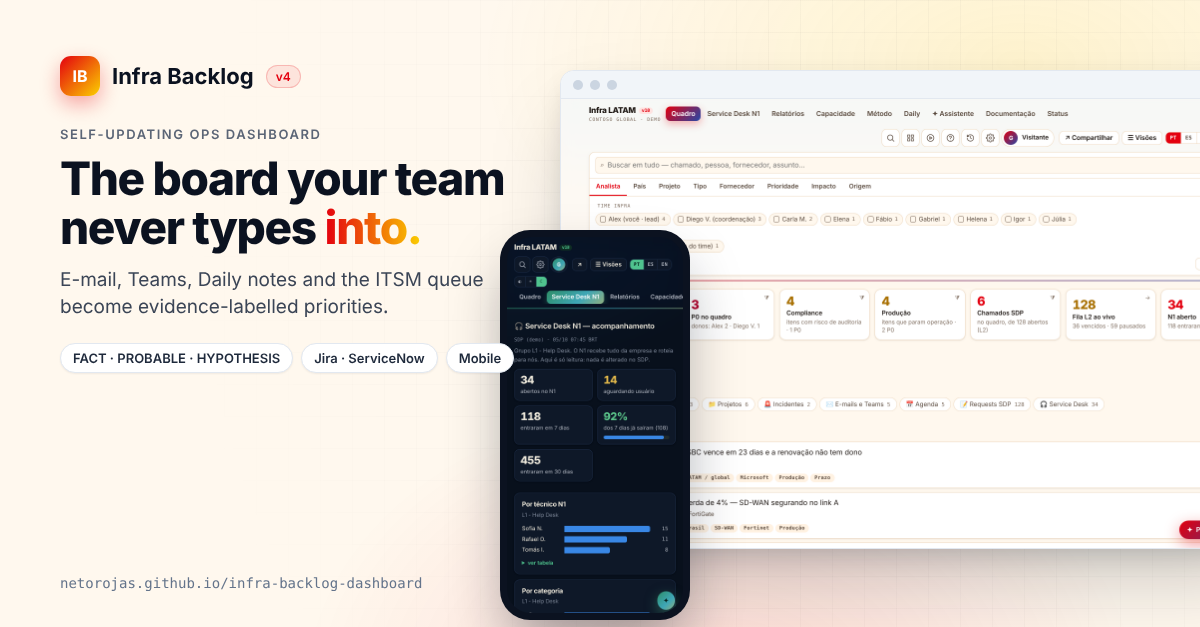
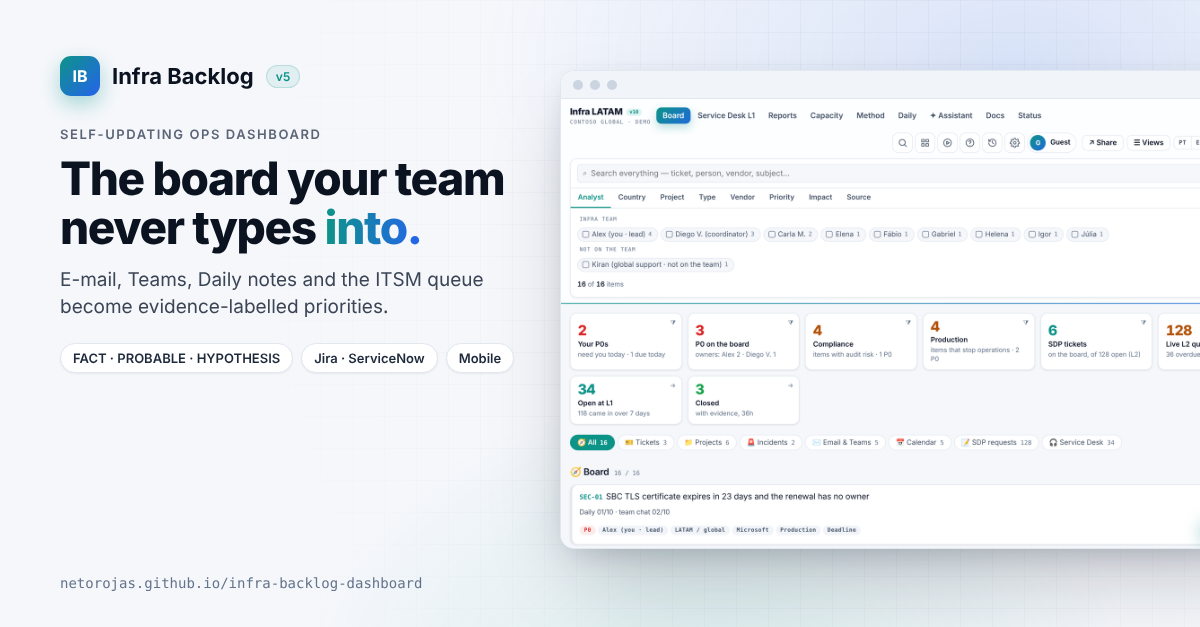
feat: v5 executive palette and link to Orbiscale map

diff --git a/assets/portal.css b/assets/portal.css
@@ -372,11 +372,26 @@ html[data-product=knoc] #mland path.k:not(.u):not(.sel){opacity:.45}
 @media (max-width:640px){.pf-scn{display:flex;margin:8px 0 0}}
 
 /* ==========================================================================
-   v4 themes — colour only, no symbols, no logos.
+   v5 default — "Executive": navy ink, confident blue, teal support.
+   Orbiscale leads with blue, Infra Backlog with teal. Other palettes: Settings › Look and colours.
+   ======================================================================== */
+:root[data-product]{--ground:#F5F7FB;--surface:#FFFFFF;--surface-2:#F1F4F9;--surface-3:#E6EBF3;--line:#E2E8F0;--line-soft:#EDF1F6;--ink:#0F172A;--ink-2:#475569;--ink-3:#64748B;--ok:#16A34A;--ok-bg:#E8F7EE;--warn:#B45309;--warn-bg:#FEF3E2;--crit:#DC2626;--crit-bg:#FDECEC;--unk:#64748B;--unk-bg:#EEF2F7;--accent:#2563EB;--accent-ink:#FFFFFF;--accent-soft:#E8EFFD;--pf-accent-2:#0EA5A4;--pf-grad:linear-gradient(135deg,#2563EB 0%,#0EA5A4 120%);--pf-gold:#F59E0B;--pf-red:#2563EB;--pf-blue:#2563EB;--sea:#EAF1FB;--land:#DCE5F0;--land-k:#C5D5EC;--land-line:#FFFFFF;--pf-glass:rgba(255,255,255,.82);--pf-scrim:rgba(15,23,42,.38);--tp-bg:#F3F6FA;--tp-dot:#D6DEE8;--tp-node:#FFFFFF;--tp-line:#AEBBCB;--tp-ink:#172231;--tp-ink2:#5B6878;--tp-zone:rgba(37,99,235,.035);--tp-zst:#C3CEDB;--tp-zl:#5F7187;--tp-halo:#FFFFFF;--tp-land:#E4EAF1;--tp-landk:#D7E1EC;--tp-landl:#C3CEDB;--tp-bar:rgba(255,255,255,.94);--tp-barl:#D2DAE4;--tp-tb:#FFFFFF;--tp-tbl:#C9D3DF;--tp-tbi:#1F2B3A;--tp-gcl:rgba(40,60,90,.16);}
+:root[data-product="backlog"]{--accent:#0D9488;--accent-soft:#E0F5F2;--pf-accent-2:#2563EB;--pf-grad:linear-gradient(135deg,#0D9488 0%,#2563EB 120%);}
+html[data-product] body{background-image:radial-gradient(1100px 420px at 90% -10%,rgba(37,99,235,.07),transparent 60%)}
+@media (prefers-color-scheme:dark){:root[data-product]:not([data-theme="light"]){--ground:#0B1220;--surface:#111A2E;--surface-2:#16213A;--surface-3:#1D2A47;--line:#23314F;--line-soft:#1A2540;--ink:#E6ECF5;--ink-2:#A9B6CB;--ink-3:#7E8BA3;--ok:#4ADE80;--ok-bg:#0F2A1B;--warn:#FBBF24;--warn-bg:#2E2410;--crit:#F87171;--crit-bg:#341618;--unk:#94A3B8;--unk-bg:#1A2233;--accent:#60A5FA;--accent-ink:#06101F;--accent-soft:#15284A;--pf-accent-2:#2DD4BF;--pf-grad:linear-gradient(135deg,#3B82F6 0%,#2DD4BF 120%);--pf-gold:#FBBF24;--pf-red:#60A5FA;--pf-blue:#60A5FA;--sea:#0A1424;--land:#17223A;--land-k:#1F3560;--land-line:#0B1220;--pf-glass:rgba(17,26,46,.82);--pf-scrim:rgba(2,6,12,.6);--shadow:0 1px 2px rgba(0,0,0,.4);--pf-shadow-md:0 8px 24px rgba(0,0,0,.45);--pf-shadow-lg:0 30px 80px rgba(0,0,0,.6);--tp-bg:#0B1220;--tp-dot:#1A2540;--tp-node:#111A2E;--tp-line:#33456B;--tp-ink:#E6ECF5;--tp-ink2:#8A97AE;--tp-zone:rgba(96,165,250,.05);--tp-zst:#23314F;--tp-zl:#7E8BA3;--tp-halo:#0B1220;--tp-land:#121C33;--tp-landk:#17243F;--tp-landl:#23314F;--tp-bar:rgba(11,18,32,.88);--tp-barl:#23314F;--tp-tb:#111A2E;--tp-tbl:#2A3A5C;--tp-tbi:#C9D5E8;--tp-gcl:rgba(160,185,215,.12);}
+  :root[data-product="backlog"]:not([data-theme="light"]){--accent:#2DD4BF;--accent-ink:#04201B;--accent-soft:#0E2E2A;--pf-accent-2:#60A5FA;--pf-grad:linear-gradient(135deg,#14B8A6 0%,#3B82F6 120%);}
+  :root[data-product]:not([data-theme="light"]) body{background-image:radial-gradient(1100px 480px at 90% -10%,rgba(59,130,246,.12),transparent 60%),radial-gradient(800px 500px at 0% 0%,rgba(45,212,191,.06),transparent 60%)}}
+:root[data-product][data-theme="dark"]{--ground:#0B1220;--surface:#111A2E;--surface-2:#16213A;--surface-3:#1D2A47;--line:#23314F;--line-soft:#1A2540;--ink:#E6ECF5;--ink-2:#A9B6CB;--ink-3:#7E8BA3;--ok:#4ADE80;--ok-bg:#0F2A1B;--warn:#FBBF24;--warn-bg:#2E2410;--crit:#F87171;--crit-bg:#341618;--unk:#94A3B8;--unk-bg:#1A2233;--accent:#60A5FA;--accent-ink:#06101F;--accent-soft:#15284A;--pf-accent-2:#2DD4BF;--pf-grad:linear-gradient(135deg,#3B82F6 0%,#2DD4BF 120%);--pf-gold:#FBBF24;--pf-red:#60A5FA;--pf-blue:#60A5FA;--sea:#0A1424;--land:#17223A;--land-k:#1F3560;--land-line:#0B1220;--pf-glass:rgba(17,26,46,.82);--pf-scrim:rgba(2,6,12,.6);--shadow:0 1px 2px rgba(0,0,0,.4);--pf-shadow-md:0 8px 24px rgba(0,0,0,.45);--pf-shadow-lg:0 30px 80px rgba(0,0,0,.6);--tp-bg:#0B1220;--tp-dot:#1A2540;--tp-node:#111A2E;--tp-line:#33456B;--tp-ink:#E6ECF5;--tp-ink2:#8A97AE;--tp-zone:rgba(96,165,250,.05);--tp-zst:#23314F;--tp-zl:#7E8BA3;--tp-halo:#0B1220;--tp-land:#121C33;--tp-landk:#17243F;--tp-landl:#23314F;--tp-bar:rgba(11,18,32,.88);--tp-barl:#23314F;--tp-tb:#111A2E;--tp-tbl:#2A3A5C;--tp-tbi:#C9D5E8;--tp-gcl:rgba(160,185,215,.12);}
+:root[data-product="backlog"][data-theme="dark"]{--accent:#2DD4BF;--accent-ink:#04201B;--accent-soft:#0E2E2A;--pf-accent-2:#60A5FA;--pf-grad:linear-gradient(135deg,#14B8A6 0%,#3B82F6 120%);}
+:root[data-product][data-theme="dark"] body{background-image:radial-gradient(1100px 480px at 90% -10%,rgba(59,130,246,.12),transparent 60%),radial-gradient(800px 500px at 0% 0%,rgba(45,212,191,.06),transparent 60%)}
+:root[data-product] .nav a[aria-current="page"]{box-shadow:inset 3px 0 0 var(--accent)}
+
+/* ==========================================================================
+   Ember / Grove palette (optional since v5) — colour only, no symbols, no logos.
    Light "Ember": warm cream page, signal red leads, royal blue and sun yellow support.
    Dark  "Grove": night forest, moss green leads, old gold and stone blue support.
    ======================================================================== */
-:root[data-product]{
+:root[data-product][data-pbase="ember"]{
   --ground:#FFF8EE;--surface:#FFFFFF;--surface-2:#FFF2E2;--surface-3:#FBE7D0;--line:#F0DCC4;--line-soft:#F7EADB;
   --ink:#1B1410;--ink-2:#5A4A3E;--ink-3:#7D6B5D;
   --ok:#2B8A3A;--ok-bg:#E6F5E3;--warn:#A86F00;--warn-bg:#FFF3C4;--crit:#B4002A;--crit-bg:#FDE4E7;
@@ -388,9 +403,9 @@ html[data-product=knoc] #mland path.k:not(.u):not(.sel){opacity:.45}
   --pf-glass:rgba(255,250,243,.78);
   --tp-bg:#FFF8EE;--tp-dot:#F0DCC4;--tp-node:#FFFFFF;--tp-line:#C9B39C;--tp-ink:#1B1410;--tp-ink2:#6A5849;--tp-zone:rgba(228,0,15,.03);--tp-zst:#EBCFB2;--tp-zl:#7D6B5D;--tp-halo:#FFFFFF;--tp-land:#E3F1DD;--tp-landk:#CBE8C2;--tp-landl:#B8D9AE;--tp-bar:rgba(255,250,243,.95);--tp-barl:#EBD7C0;--tp-tb:#FFFFFF;--tp-tbl:#E6CFB6;--tp-tbi:#2A1F18;--tp-gcl:rgba(90,60,30,.16);
 }
-:root[data-product="backlog"]{--pf-accent-2:#43B047;--pf-grad:linear-gradient(135deg,#E4000F 0%,#0058C9 120%)}
-html[data-product] body{background-image:linear-gradient(180deg,#DDEEFF 0,rgba(221,238,255,.35) 160px,transparent 380px)}
-@media (prefers-color-scheme:dark){:root[data-product]:not([data-theme="light"]){
+:root[data-product="backlog"][data-pbase="ember"]{--pf-accent-2:#43B047;--pf-grad:linear-gradient(135deg,#E4000F 0%,#0058C9 120%)}
+html[data-product][data-pbase="ember"] body{background-image:linear-gradient(180deg,#DDEEFF 0,rgba(221,238,255,.35) 160px,transparent 380px)}
+@media (prefers-color-scheme:dark){:root[data-product][data-pbase="ember"]:not([data-theme="light"]){
   --ground:#0E1A16;--surface:#15251F;--surface-2:#1B2F27;--surface-3:#233A30;--line:#2A4337;--line-soft:#1F342B;
   --ink:#E8E2CF;--ink-2:#BDB59C;--ink-3:#8E8873;
   --ok:#7BD88F;--ok-bg:#16301F;--warn:#D9B44A;--warn-bg:#2E2810;--crit:#E5735F;--crit-bg:#3A1C17;
@@ -402,7 +417,7 @@ html[data-product] body{background-image:linear-gradient(180deg,#DDEEFF 0,rgba(2
   --shadow:0 1px 2px rgba(0,0,0,.45);--pf-shadow-md:0 8px 24px rgba(0,0,0,.5);--pf-shadow-lg:0 30px 80px rgba(0,0,0,.6);
   --tp-bg:#0B1612;--tp-dot:#1C2E26;--tp-node:#15251F;--tp-line:#3B5A4A;--tp-ink:#E8E2CF;--tp-ink2:#9C967F;--tp-zone:rgba(63,166,107,.05);--tp-zst:#2A4337;--tp-zl:#8E8873;--tp-halo:#0B1612;--tp-land:#13231D;--tp-landk:#1B3329;--tp-landl:#2A4337;--tp-bar:rgba(11,22,18,.88);--tp-barl:#2A4337;--tp-tb:#15251F;--tp-tbl:#2E4A3C;--tp-tbi:#D9D2BC;--tp-gcl:rgba(217,180,74,.14);
 }}
-:root[data-product][data-theme="dark"]{
+:root[data-product][data-pbase="ember"][data-theme="dark"]{
   --ground:#0E1A16;--surface:#15251F;--surface-2:#1B2F27;--surface-3:#233A30;--line:#2A4337;--line-soft:#1F342B;
   --ink:#E8E2CF;--ink-2:#BDB59C;--ink-3:#8E8873;
   --ok:#7BD88F;--ok-bg:#16301F;--warn:#D9B44A;--warn-bg:#2E2810;--crit:#E5735F;--crit-bg:#3A1C17;
@@ -414,13 +429,13 @@ html[data-product] body{background-image:linear-gradient(180deg,#DDEEFF 0,rgba(2
   --shadow:0 1px 2px rgba(0,0,0,.45);--pf-shadow-md:0 8px 24px rgba(0,0,0,.5);--pf-shadow-lg:0 30px 80px rgba(0,0,0,.6);
   --tp-bg:#0B1612;--tp-dot:#1C2E26;--tp-node:#15251F;--tp-line:#3B5A4A;--tp-ink:#E8E2CF;--tp-ink2:#9C967F;--tp-zone:rgba(63,166,107,.05);--tp-zst:#2A4337;--tp-zl:#8E8873;--tp-halo:#0B1612;--tp-land:#13231D;--tp-landk:#1B3329;--tp-landl:#2A4337;--tp-bar:rgba(11,22,18,.88);--tp-barl:#2A4337;--tp-tb:#15251F;--tp-tbl:#2E4A3C;--tp-tbi:#D9D2BC;--tp-gcl:rgba(217,180,74,.14);
 }
-@media (prefers-color-scheme:dark){:root[data-product="backlog"]:not([data-theme="light"]){--accent:#D9B44A;--accent-ink:#1A1405;--accent-soft:#33290F;--pf-accent-2:#3FA66B;--pf-grad:linear-gradient(135deg,#D9B44A 0%,#3FA66B 120%)}}
-:root[data-product="backlog"][data-theme="dark"]{--accent:#D9B44A;--accent-ink:#1A1405;--accent-soft:#33290F;--pf-accent-2:#3FA66B;--pf-grad:linear-gradient(135deg,#D9B44A 0%,#3FA66B 120%)}
-@media (prefers-color-scheme:dark){:root[data-product]:not([data-theme="light"]) body{background-image:radial-gradient(1200px 520px at 85% -10%,rgba(217,180,74,.08),transparent 60%),radial-gradient(900px 500px at 0% 0%,rgba(63,166,107,.12),transparent 60%)}}
-:root[data-product][data-theme="dark"] body{background-image:radial-gradient(1200px 520px at 85% -10%,rgba(217,180,74,.08),transparent 60%),radial-gradient(900px 500px at 0% 0%,rgba(63,166,107,.12),transparent 60%)}
+@media (prefers-color-scheme:dark){:root[data-product="backlog"][data-pbase="ember"]:not([data-theme="light"]){--accent:#D9B44A;--accent-ink:#1A1405;--accent-soft:#33290F;--pf-accent-2:#3FA66B;--pf-grad:linear-gradient(135deg,#D9B44A 0%,#3FA66B 120%)}}
+:root[data-product="backlog"][data-pbase="ember"][data-theme="dark"]{--accent:#D9B44A;--accent-ink:#1A1405;--accent-soft:#33290F;--pf-accent-2:#3FA66B;--pf-grad:linear-gradient(135deg,#D9B44A 0%,#3FA66B 120%)}
+@media (prefers-color-scheme:dark){:root[data-product][data-pbase="ember"]:not([data-theme="light"]) body{background-image:radial-gradient(1200px 520px at 85% -10%,rgba(217,180,74,.08),transparent 60%),radial-gradient(900px 500px at 0% 0%,rgba(63,166,107,.12),transparent 60%)}}
+:root[data-product][data-pbase="ember"][data-theme="dark"] body{background-image:radial-gradient(1200px 520px at 85% -10%,rgba(217,180,74,.08),transparent 60%),radial-gradient(900px 500px at 0% 0%,rgba(63,166,107,.12),transparent 60%)}
 /* selected nav: red bar in light, thin gold rim in dark */
-:root[data-product]:not([data-theme="dark"]) .nav a[aria-current="page"]{box-shadow:inset 3px 0 0 var(--pf-red)}
-:root[data-product][data-theme="dark"] .nav a[aria-current="page"],:root[data-product][data-theme="dark"] nav.main button[aria-pressed="true"]{box-shadow:inset 0 0 0 1px rgba(217,180,74,.4)}
+:root[data-product][data-pbase="ember"]:not([data-theme="dark"]) .nav a[aria-current="page"]{box-shadow:inset 3px 0 0 var(--pf-red)}
+:root[data-product][data-pbase="ember"][data-theme="dark"] .nav a[aria-current="page"],:root[data-product][data-pbase="ember"][data-theme="dark"] nav.main button[aria-pressed="true"]{box-shadow:inset 0 0 0 1px rgba(217,180,74,.4)}
 
 /* ---------- full-screen working area: map + topology fill the viewport ---------- */
 html[data-product="knoc"][data-view="map"] .vhead p,html[data-product="knoc"][data-view="topo"] .vhead p{display:none}

diff --git a/assets/portal.js b/assets/portal.js
@@ -15,7 +15,7 @@
 var me = document.currentScript, P = (me && me.dataset.product) || 'knoc', C = window.PF_CONTENT;
 if (!C) return;
 var root = document.documentElement; root.dataset.product = P;
-var VERSION = '4.0.0';
+var VERSION = '5.0.0';
 
 /* ---------- helpers ---------- */
 var $ = function (s, r) { return (r || document).querySelector(s); };
@@ -322,12 +322,13 @@ var SECTIONS = {
 /* ---------- 4b. Appearance: palettes + your own colours ---------- */
 var T3 = function (a, b, c) { return tx(L3(a, b, c)); };
 var PALS = [
-  ['signature', L3('Assinatura', 'Firma', 'Signature'), L3('Claro em vermelho vivo, escuro em floresta e dourado', 'Claro en rojo vivo, oscuro en bosque y dorado', 'Light in bold red, dark in forest and gold'), '', ['#E4000F', '#0058C9', '#FBD000'], ['#3FA66B', '#D9B44A', '#4F8FBF']],
-  ['classic', L3('Corporativo', 'Corporativo', 'Corporate'), L3('Azul sóbrio, fundos neutros', 'Azul sobrio, fondos neutros', 'Calm blue on neutral surfaces'), 'neutral', ['#1F5FD6', '#06B6D4', '#F59E0B'], ['#6E9BFF', '#22D3EE', '#FBBF24']],
-  ['graphite', L3('Grafite', 'Grafito', 'Graphite'), L3('Quase monocromático, para telas de NOC', 'Casi monocromático, para pantallas de NOC', 'Near-monochrome, for NOC walls'), 'neutral', ['#334155', '#0EA5E9', '#64748B'], ['#CBD5E1', '#38BDF8', '#94A3B8']],
+  ['executive', L3('Executivo', 'Ejecutivo', 'Executive'), L3('Azul confiável e verde-água sobre fundos neutros. O padrão.', 'Azul confiable y verde agua sobre fondos neutros. El estándar.', 'Trusted blue and teal on neutral surfaces. The default.'), '', ['#2563EB', '#0EA5A4', '#0F172A'], ['#60A5FA', '#2DD4BF', '#E6ECF5'], 1],
+  ['violet', L3('Grafite + violeta', 'Grafito + violeta', 'Graphite + violet'), L3('Neutro e moderno, estilo observabilidade', 'Neutro y moderno, estilo observabilidad', 'Neutral and modern, observability style'), 'neutral', ['#6D5DF6', '#0EA5E9', '#111827'], ['#A498FF', '#38BDF8', '#E5E7EB']],
   ['ocean', L3('Oceano', 'Océano', 'Ocean'), L3('Azul-petróleo e azul profundo', 'Azul petróleo y azul profundo', 'Teal and deep blue'), 'neutral', ['#0E7490', '#2563EB', '#14B8A6'], ['#22D3EE', '#60A5FA', '#2DD4BF']],
+  ['graphite', L3('Grafite', 'Grafito', 'Graphite'), L3('Quase monocromático, para telas de NOC', 'Casi monocromático, para pantallas de NOC', 'Near-monochrome, for NOC walls'), 'neutral', ['#334155', '#0EA5E9', '#64748B'], ['#CBD5E1', '#38BDF8', '#94A3B8']],
   ['forest', L3('Mata', 'Selva', 'Woodland'), L3('Verde e mostarda, fundos neutros', 'Verde y mostaza, fondos neutros', 'Green and mustard on neutral surfaces'), 'neutral', ['#15803D', '#CA8A04', '#0F766E'], ['#4ADE80', '#FACC15', '#2DD4BF']],
   ['sunset', L3('Entardecer', 'Atardecer', 'Dusk'), L3('Laranja e violeta', 'Naranja y violeta', 'Orange and violet'), 'neutral', ['#C2410C', '#7C3AED', '#DB2777'], ['#FB923C', '#A78BFA', '#F472B6']],
+  ['ember', L3('Brasa & Bosque', 'Brasa y Bosque', 'Ember & Grove'), L3('Claro em vermelho vivo, escuro em floresta e dourado', 'Claro en rojo vivo, oscuro en bosque y dorado', 'Light in bold red, dark in forest and gold'), 'ember', ['#E4000F', '#0058C9', '#FBD000'], ['#3FA66B', '#D9B44A', '#4F8FBF'], 1],
   ['contrast', L3('Alto contraste', 'Alto contraste', 'High contrast'), L3('Acessibilidade: bordas e textos mais fortes', 'Accesibilidad: bordes y textos más fuertes', 'Accessibility: stronger borders and text'), 'contrast', ['#000000', '#0047AB', '#B00020'], ['#FFE600', '#00E5FF', '#FF6E6E']]
 ];
 function isDark() { var c = root.getAttribute('data-theme'); return c === 'dark' || (c !== 'light' && window.matchMedia && matchMedia('(prefers-color-scheme: dark)').matches); }
@@ -335,12 +336,12 @@ function hexOk(h) { return /^#[0-9a-f]{6}$/i.test(h || ''); }
 function lum(h) { var c = [1, 3, 5].map(function (i) { var v = parseInt(h.substr(i, 2), 16) / 255; return v <= 0.03928 ? v / 12.92 : Math.pow((v + 0.055) / 1.055, 2.4); }); return 0.2126 * c[0] + 0.7152 * c[1] + 0.0722 * c[2]; }
 var LOOK_VARS = ['--accent', '--accent-ink', '--accent-soft', '--pf-accent-2', '--pf-grad', '--pf-red'];
 function applyLook() {
-  var id = S.pal || 'signature', p = PALS.filter(function (x) { return x[0] === id; })[0] || PALS[0], dark = isDark();
+  var id = S.pal === 'signature' ? 'ember' : (S.pal || 'executive'), p = PALS.filter(function (x) { return x[0] === id; })[0] || PALS[0], dark = isDark();
   root.dataset.pbase = p[3] || '';
   root.dataset.palette = p[0];
   var sw = dark ? p[5] : p[4], a = sw[0], b = sw[1];
   if (S.myCol && hexOk(S.myA)) { a = S.myA; b = hexOk(S.myB) ? S.myB : b; }
-  if (p[0] === 'signature' && !(S.myCol && hexOk(S.myA))) { LOOK_VARS.forEach(function (v) { root.style.removeProperty(v); }); return; }
+  if (p[6] && !(S.myCol && hexOk(S.myA))) { LOOK_VARS.forEach(function (v) { root.style.removeProperty(v); }); return; }
   var ink = lum(a) > 0.4 ? '#0B0F14' : '#FFFFFF';
   root.style.setProperty('--accent', a); root.style.setProperty('--accent-ink', ink);
   root.style.setProperty('--accent-soft', 'color-mix(in srgb,' + a + ' ' + (dark ? '22%' : '12%') + ',var(--surface))');
@@ -351,7 +352,7 @@ new MutationObserver(function (m) { if (m.some(function (x) { return x.attribute
 if (window.matchMedia) { try { matchMedia('(prefers-color-scheme: dark)').addEventListener('change', applyLook); } catch (e) { /* old Safari */ } }
 
 SECTIONS.look = function () {
-  var cur = S.pal || 'signature', dark = isDark();
+  var cur = S.pal === 'signature' ? 'ember' : (S.pal || 'executive'), dark = isDark();
   var cards = PALS.map(function (p) {
     var dots = function (arr) { return arr.map(function (c) { return '<i style="background:' + c + '"></i>'; }).join(''); };
     return '<button class="pf-swatch" data-pal="' + p[0] + '" aria-pressed="' + (p[0] === cur) + '"><span class="pf-swatch-sw"><span class="l">' + dots(p[4]) + '</span><span class="d">' + dots(p[5]) + '</span></span><b>' + esc(tx(p[1])) + '</b><small>' + esc(tx(p[2])) + '</small></button>';
@@ -384,7 +385,7 @@ function lookWire(body) {
     var g = e.target.closest('[data-seg="theme"] [data-v]');
     if (g) { var tb = $('#theme [data-t="' + g.dataset.v + '"]'); if (tb) tb.click(); setTimeout(function () { settings('look'); }, 60); return; }
     var a = e.target.closest('[data-act="lookreset"]');
-    if (a) { S.pal = 'signature'; S.myCol = false; delete S.myA; delete S.myB; saveS(); applyLook(); settings('look'); toast(T3('Cores padrão restauradas.', 'Colores estándar restaurados.', 'Default colours restored.')); }
+    if (a) { S.pal = 'executive'; S.myCol = false; delete S.myA; delete S.myB; saveS(); applyLook(); settings('look'); toast(T3('Cores padrão restauradas.', 'Colores estándar restaurados.', 'Default colours restored.')); }
   };
   body.oninput = function (e) {
     if (e.target.id !== 'pfMyA' && e.target.id !== 'pfMyB') return;
@@ -651,8 +652,15 @@ function boot() {
   mountUtils();
   var view = $('#view'); if (view) new MutationObserver(debounce(afterNav, 30)).observe(view, { childList: true });
   if (S.start && !location.hash && P === 'knoc' && S.start !== 'home') PR.go(S.start);
-  afterNav();
+  afterNav(); hideSplash();
   if (!/[?&]nologin\b/.test(location.search)) login(); else afterLogin(false);
+}
+/* splash: leave it up until the first screen has painted (and at least ~0.7 s, so it never flickers) */
+function hideSplash() {
+  var sp = document.getElementById('pf-splash'); if (!sp) return;
+  var wait = Math.max(0, 700 - (Date.now() - (window.__pfSplashAt || 0)));
+  setTimeout(function () { requestAnimationFrame(function () { requestAnimationFrame(function () {
+    sp.classList.add('out'); setTimeout(function () { if (sp.parentNode) sp.parentNode.removeChild(sp); }, 450); }); }); }, wait);
 }
 if (document.readyState === 'loading') document.addEventListener('DOMContentLoaded', boot); else setTimeout(boot, 0);
 

diff --git a/index.html b/index.html
@@ -308,9 +308,27 @@
   }
   @media print{header.top,.kpis,footer,.menu{display:none!important} .card[data-open="0"] .cbody{display:block}}
   @media (prefers-reduced-motion:reduce){*{animation:none!important;transition:none!important}}
+.tag.orb{text-decoration:none;color:var(--accent);border:1px solid var(--accent);background:transparent;font-weight:600}
 </style>
 </head>
 <body>
+<div id="pf-splash" role="status" aria-live="polite"><style>
+#pf-splash{position:fixed;inset:0;z-index:5000;display:grid;place-items:center;background:#F5F7FB;font-family:Inter,-apple-system,'Segoe UI',sans-serif;transition:opacity .35s ease,visibility .35s}
+@media (prefers-color-scheme:dark){#pf-splash{background:#0B1220}}
+html[data-theme="dark"] #pf-splash{background:#0B1220}html[data-theme="light"] #pf-splash{background:#F5F7FB}
+#pf-splash.out{opacity:0;visibility:hidden}
+#pf-splash .w{display:flex;flex-direction:column;align-items:center;gap:18px;min-width:260px}
+#pf-splash .lg{width:64px;height:64px;border-radius:18px;background:linear-gradient(135deg,#2563EB,#0EA5A4);display:grid;place-items:center;color:#fff;font:800 28px Inter,sans-serif;box-shadow:0 14px 40px rgba(37,99,235,.35);animation:pfs-b 1.6s ease-in-out infinite}
+#pf-splash b{font-size:20px;color:#0F172A;letter-spacing:-.01em}@media (prefers-color-scheme:dark){#pf-splash b{color:#E6ECF5}}html[data-theme="dark"] #pf-splash b{color:#E6ECF5}
+#pf-splash .bar{width:220px;height:4px;border-radius:4px;background:rgba(100,116,139,.2);overflow:hidden}
+#pf-splash .bar i{display:block;height:100%;width:40%;border-radius:4px;background:linear-gradient(90deg,#2563EB,#0EA5A4);animation:pfs-l 1.1s ease-in-out infinite}
+#pf-splash small{font:500 12.5px 'JetBrains Mono',monospace;color:#64748B;min-height:16px}
+@keyframes pfs-l{0%{transform:translateX(-110%)}100%{transform:translateX(260%)}}
+@keyframes pfs-b{50%{transform:translateY(-4px)}}
+@media (prefers-reduced-motion:reduce){#pf-splash .lg,#pf-splash .bar i{animation:none}}
+</style><div class="w"><div class="lg">IB</div><b>Infra Backlog</b><div class="bar"><i></i></div><small id="pf-splash-msg">…</small></div>
+<script>(function(){var L=(navigator.language||'pt').slice(0,2),M={pt:["Lendo e-mails e Teams…", "Juntando chamados…", "Priorizando o quadro…"],es:["Leyendo correos y Teams…", "Reuniendo tickets…", "Priorizando el tablero…"],en:["Reading e-mail and Teams…", "Collecting tickets…", "Prioritising the board…"]}[L]||["Reading e-mail and Teams…", "Collecting tickets…", "Prioritising the board…"],i=0,e=document.getElementById('pf-splash-msg');function n(){if(!e||!document.getElementById('pf-splash'))return;e.textContent=M[i%M.length];i++;setTimeout(n,650)}n();window.__pfSplashAt=Date.now();setTimeout(function(){var s=document.getElementById('pf-splash');if(s)s.classList.add('out')},8000)})()</script></div>
+
 
 <header class="top">
   <div class="bar">
@@ -567,6 +585,7 @@
         (tags.length?'<div class="ctags">'+tags.join('')+'</div>':'')+
         '<div class="cright"><span class="age '+sev(it.s)+'">'+esc(it.age||'')+'</span>'+
           '<span class="agel">'+esc(it.sdp?t.lbl.em:t.lbl.idade)+'</span>'+
+          (it.c?'<a class="tag orb" target="_blank" rel="noopener" href="../knoc-network-ops-console/?nologin&amp;dem='+encodeURIComponent(it.c)+'#dem" title="'+esc(L==='es'?'Ver dónde vive en el mapa de Orbiscale':L==='en'?'See where it lives on the Orbiscale map':'Ver onde mora no mapa do Orbiscale')+'">◎ Orbiscale</a>':'')+
           (body?'<button class="more">'+(isOpen?u('less'):u('more'))+'</button>':'')+'</div>'+
       '</div>'+(body?'<div class="cbody">'+hl(body)+'</div>':'')+'</article>';
   }
@@ -1202,6 +1221,7 @@
     oname:oname, label:label, esc:esc, tx:tx, ls:ls, u:u, render:render, toast:toast
   };
 
+  try{var qp=new URLSearchParams(location.search).get('q');if(qp){Q=qp.slice(0,80);$('q').value=Q}}catch(e){}
   render();
 
   /* ---------- identidade e base, depois do primeiro paint ---------- */

diff --git a/assets/portal-content.js b/assets/portal-content.js
@@ -172,6 +172,17 @@ var FAQ = {
 
 /* changelog — [product, version, date, title L3, bullets L3[]] */
 var LOG = [
+ ['knoc', '5.0', '2026-10-08', L3('Multicloud, demandas no mapa e FinOps', 'Multinube, demandas en el mapa y FinOps', 'Multicloud, work on the map and FinOps'),
+  [L3('Selo de origem em todo site e recurso: on-prem, Azure, AWS, Google Cloud, Oracle, IBM ou SaaS', 'Sello de origen en cada sitio y recurso: on-prem, Azure, AWS, Google Cloud, Oracle, IBM o SaaS', 'Origin badge on every site and resource: on-prem, Azure, AWS, Google Cloud, Oracle, IBM or SaaS'),
+   L3('Cloud & Tenants: recursos por nuvem, desenho de rede (gateways e VPNs) e regras de NSG / Security Group', 'Cloud & Tenants: recursos por nube, diseño de red (gateways y VPN) y reglas de NSG / Security Group', 'Cloud & Tenants: resources per cloud, network design (gateways and VPNs) and NSG / security group rules'),
+   L3('Demandas: onde cada chamado, projeto, e-mail, reunião, Teams e mudança nasce e em qual site mora', 'Demandas: dónde nace cada ticket, proyecto, correo, reunión, Teams y cambio y en qué sitio vive', 'Work on the map: where each ticket, project, e-mail, meeting, Teams thread and change is born and which site it lives on'),
+   L3('Achados de segurança do discovery viram rascunho de chamado ou aviso no Teams', 'Hallazgos de seguridad del discovery se vuelven borrador de ticket o aviso en Teams', 'Security findings from discovery become a draft ticket or Teams post'),
+   L3('FinOps (módulo Enterprise): custo por nuvem, região, site e recurso, tendência, orçamento e economia, com visão por perfil', 'FinOps (módulo Enterprise): costo por nube, región, sitio y recurso, tendencia, presupuesto y ahorro, con vista por perfil', 'FinOps (Enterprise module): cost by cloud, region, site and resource, trend, budget and savings, with role-based views'),
+   L3('Topologia por nuvem e tela de carregamento', 'Topología por nube y pantalla de carga', 'Topology per cloud and a loading screen')]],
+ ['both', '5.0', '2026-10-08', L3('Paleta Executivo e integração Backlog ↔ Orbiscale', 'Paleta Ejecutivo e integración Backlog ↔ Orbiscale', 'Executive palette and Backlog ↔ Orbiscale link'),
+  [L3('Nova paleta padrão Executivo: azul confiável e verde-água, claro e escuro', 'Nueva paleta por defecto Ejecutivo: azul confiable y verde agua, claro y oscuro', 'New default Executive palette: trusted blue and teal, light and dark'),
+   L3('Cada item do Backlog abre o local dele no mapa do Orbiscale, e o Orbiscale abre o item no Backlog', 'Cada ítem del Backlog abre su lugar en el mapa de Orbiscale, y Orbiscale abre el ítem en el Backlog', 'Every Backlog item opens its place on the Orbiscale map, and Orbiscale opens the item in the Backlog'),
+   L3('Tela de abertura enquanto carrega e telas pesadas mais leves', 'Pantalla de apertura mientras carga y vistas pesadas más livianas', 'Splash screen while loading and lighter heavy views')]],
  ['knoc', '4.0', '2026-10-07', L3('Orbiscale: mapa vivo, minimapa e textos que não se atropelam', 'Orbiscale: mapa vivo, minimapa y textos que no se pisan', 'Orbiscale: live map, minimap and labels that never collide'),
   [L3('Cartões flutuantes por site: arraste, fixe, recolha; nunca cobrem outro cartão nem os pontos do mapa', 'Tarjetas flotantes por sitio: arrastra, fija, recoge; nunca tapan otra tarjeta ni los puntos', 'Floating site cards: drag, pin, collapse; they never cover another card or the map dots'),
    L3('Nível de detalhe: de longe vira um chip desfocado, de perto mostra todos os ativos', 'Nivel de detalle: de lejos es un chip difuso, de cerca muestra todos los activos', 'Level of detail: a blurred chip far away, every asset up close'),

diff --git a/CHANGELOG.md b/CHANGELOG.md
@@ -2,6 +2,13 @@
 
 All notable changes to Infra Backlog. Format: [Keep a Changelog](https://keepachangelog.com/), versions follow SemVer.
 
+## [5.0.0] - 2026-10-08
+### Added
+- Every item has an **◎ Orbiscale** link that opens where it lives on the Orbiscale map; `?q=<text>` pre-fills the search (used by Orbiscale to open an item here).
+- Splash screen while the board loads.
+### Changed
+- New default palette **Executive** (teal-led for the Backlog, blue for Orbiscale).
+
 ## [4.0.0] - 2026-10-07
 ### Added
 - **Settings › Look and colours**: 7 palettes plus your own brand colours, shared with Orbiscale.

diff --git a/README.md b/README.md
@@ -10,6 +10,11 @@
 ▶ [Full walkthrough (MP4, with sound)](docs/media/backlog-demo.mp4) · soundtrack is an original composition generated in code, free to reuse (CC0)
 
 
+## ✨ v5 · Linked to the map
+
+- Every card has **◎ Orbiscale**: it opens the Orbiscale *Demands* view on the site or resource the item affects. Orbiscale links back with `?q=<ID>`.
+- New corporate default palette (Executive) and a splash screen while loading.
+
 ## ✨ v4
 
 - **Look and colours**: 7 palettes or your own brand colours (shared with Orbiscale).
